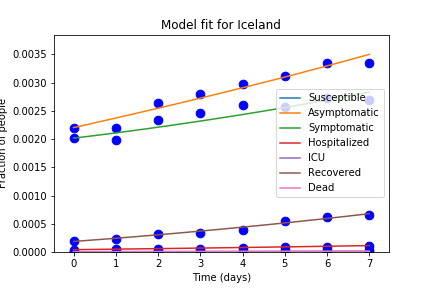
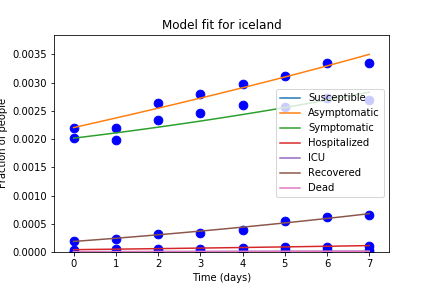
adapted the code so that it is easier to switch between datasets, given they are formatted the same way. Tried the fit for sicily

Changed region(s): [[0.3611, 0.0625, 0.662, 0.125]]

diff --git a/infectionModel_v3.0.py b/infectionModel_v3.0.py
@@ -13,10 +13,19 @@ from scipy.integrate import odeint
 if not os.path.exists('figures'):
   os.mkdir('figures')
 
-colors = ['#299727ff', '#b6311cff', '#276ba2ff', '#424242ff']
+
+# colors = ['#299727ff', '#b6311cff', '#276ba2ff', '#424242ff']
+colors = ['r', 'b', 'g', 'c', 'm', 'k', 'y']
+
+# what country/region?
+country = 'sicilia' #pick 'iceland' for Iceland
+datafile = country + '_data.csv'
+parameterfile = country + '_parameters.txt'
+
 
 #Declaration of the input variables
-input_dict = file_to_dict("iceland_parameters.txt")
+
+input_dict = file_to_dict(parameterfile)    
 vals = np.fromiter(input_dict.values(), dtype=float)
 
 #sorry for this mess feel free to make a function of this
@@ -51,8 +60,8 @@ params.add('pop_size', value=vals[25], vary=False)
 n0 = [params['n0_susc'].value, params['n0_inf1'].value, params['n0_inf2'].value, params['n0_inf3'].value, params['n0_inf4'].value, params['n0_rec'].value, params['n0_dead'].value]
 
 #loading the actual data
-iceland_data = data_loader('iceland_data.csv',params['pop_size'].value)
-iceland_data = np.transpose(iceland_data)
+country_data = data_loader(datafile,params['pop_size'].value)
+country_data = np.transpose(country_data)
 
 #creating the time array
 tstart = 0
@@ -61,22 +70,23 @@ tspan = (tstart, tend)
 t = np.linspace(tstart, tend, tend * 100)
 
 # making a time array for the model fitting (this is smaller than 365 days bc we have only 8 datapoints)
-t_measured = np.linspace(0, 7, 8)
-cat2_measured = iceland_data[:,1]
+amount_of_days = country_data.shape[0]
+t_measured = np.linspace(0, amount_of_days - 1, amount_of_days)
+# cat2_measured = country_data[:,1]
 
 # fit model
-result = minimize(residual, params, args=(t_measured, iceland_data), method='leastsq',nan_policy='raise')  # leastsq nelder
+result = minimize(residual, params, args=(t_measured, country_data), method='leastsq',nan_policy='raise')  # leastsq nelder
 # check results of the fit
-data_fitted = g(np.linspace(0., 7., 100), n0, result.params)
+data_fitted = g(np.linspace(0., 32., 100), n0, result.params)
 
 # plot fitted data
 fig1, ax1 = plt.subplots()
-for i in range(0,np.size(iceland_data,1)):
-    ax1.scatter(t_measured, iceland_data[:,i], marker='o', color='b', label='measured data', s=75)
+for i in range(0,np.size(country_data,1)):
+    ax1.scatter(t_measured, country_data[:,i], marker='o', color=colors[i], label='measured data', s=75)
 
-ax1.plot(np.linspace(0., 7., 100), data_fitted)
-ax1.legend(['Susceptible', 'Asymptomatic', 'Symptomatic', 'Hospitalized', 'ICU', 'Recovered', 'Dead'], loc = "right")
-ax1.set_title('Model fit for Iceland')
+ax1.plot(np.linspace(0., 32., 100), data_fitted)
+ax1.legend(['Susceptible', 'Asymptomatic', 'Symptomatic', 'Hospitalized', 'ICU', 'Recovered', 'Dead'], loc = "upper left")
+ax1.set_title('Model fit for ' + country)
 ax1.set_ylabel('Fraction of people')
 ax1.set_xlabel('Time (days)')
 ax1.set_ylim([0, 1.1 * max(data_fitted[:, 1])])
@@ -85,7 +95,7 @@ ax1.set_ylim([0, 1.1 * max(data_fitted[:, 1])])
 report_fit(result)
 
 plt.show()
-fig1.savefig('figures/Model_fit_iceland.png')
+fig1.savefig('figures/Model_fit_'+ country +'.png')
 
 #run the ODE model with the new parameters for the entire time array and plot results
 new_params = result.params
@@ -98,7 +108,7 @@ ax2.set_title('Population disease model with fitted rates')
 ax2.set_ylabel('Fraction of people')
 ax2.set_xlabel('Time (days)')
 
-fig2.savefig('figures/Population disease model Iceland.png')
+fig2.savefig('figures/Population disease model '+ country +'.png')
 
 
 #solving the system of ODEs 

diff --git a/function_lib_new.py b/function_lib_new.py
@@ -131,7 +131,7 @@ def data_loader(filename,pop_size):
     data = data.astype(np.float)
     data = np.divide(data,pop_size)
     sum_categories = np.sum(data,axis=0)
-    sum_categories = np.reshape(sum_categories,(1,8))
+    sum_categories = np.reshape(sum_categories,(1,data.shape[1]))
     sum_categories = 1-sum_categories
     
     data = np.concatenate((sum_categories,data),axis=0)
